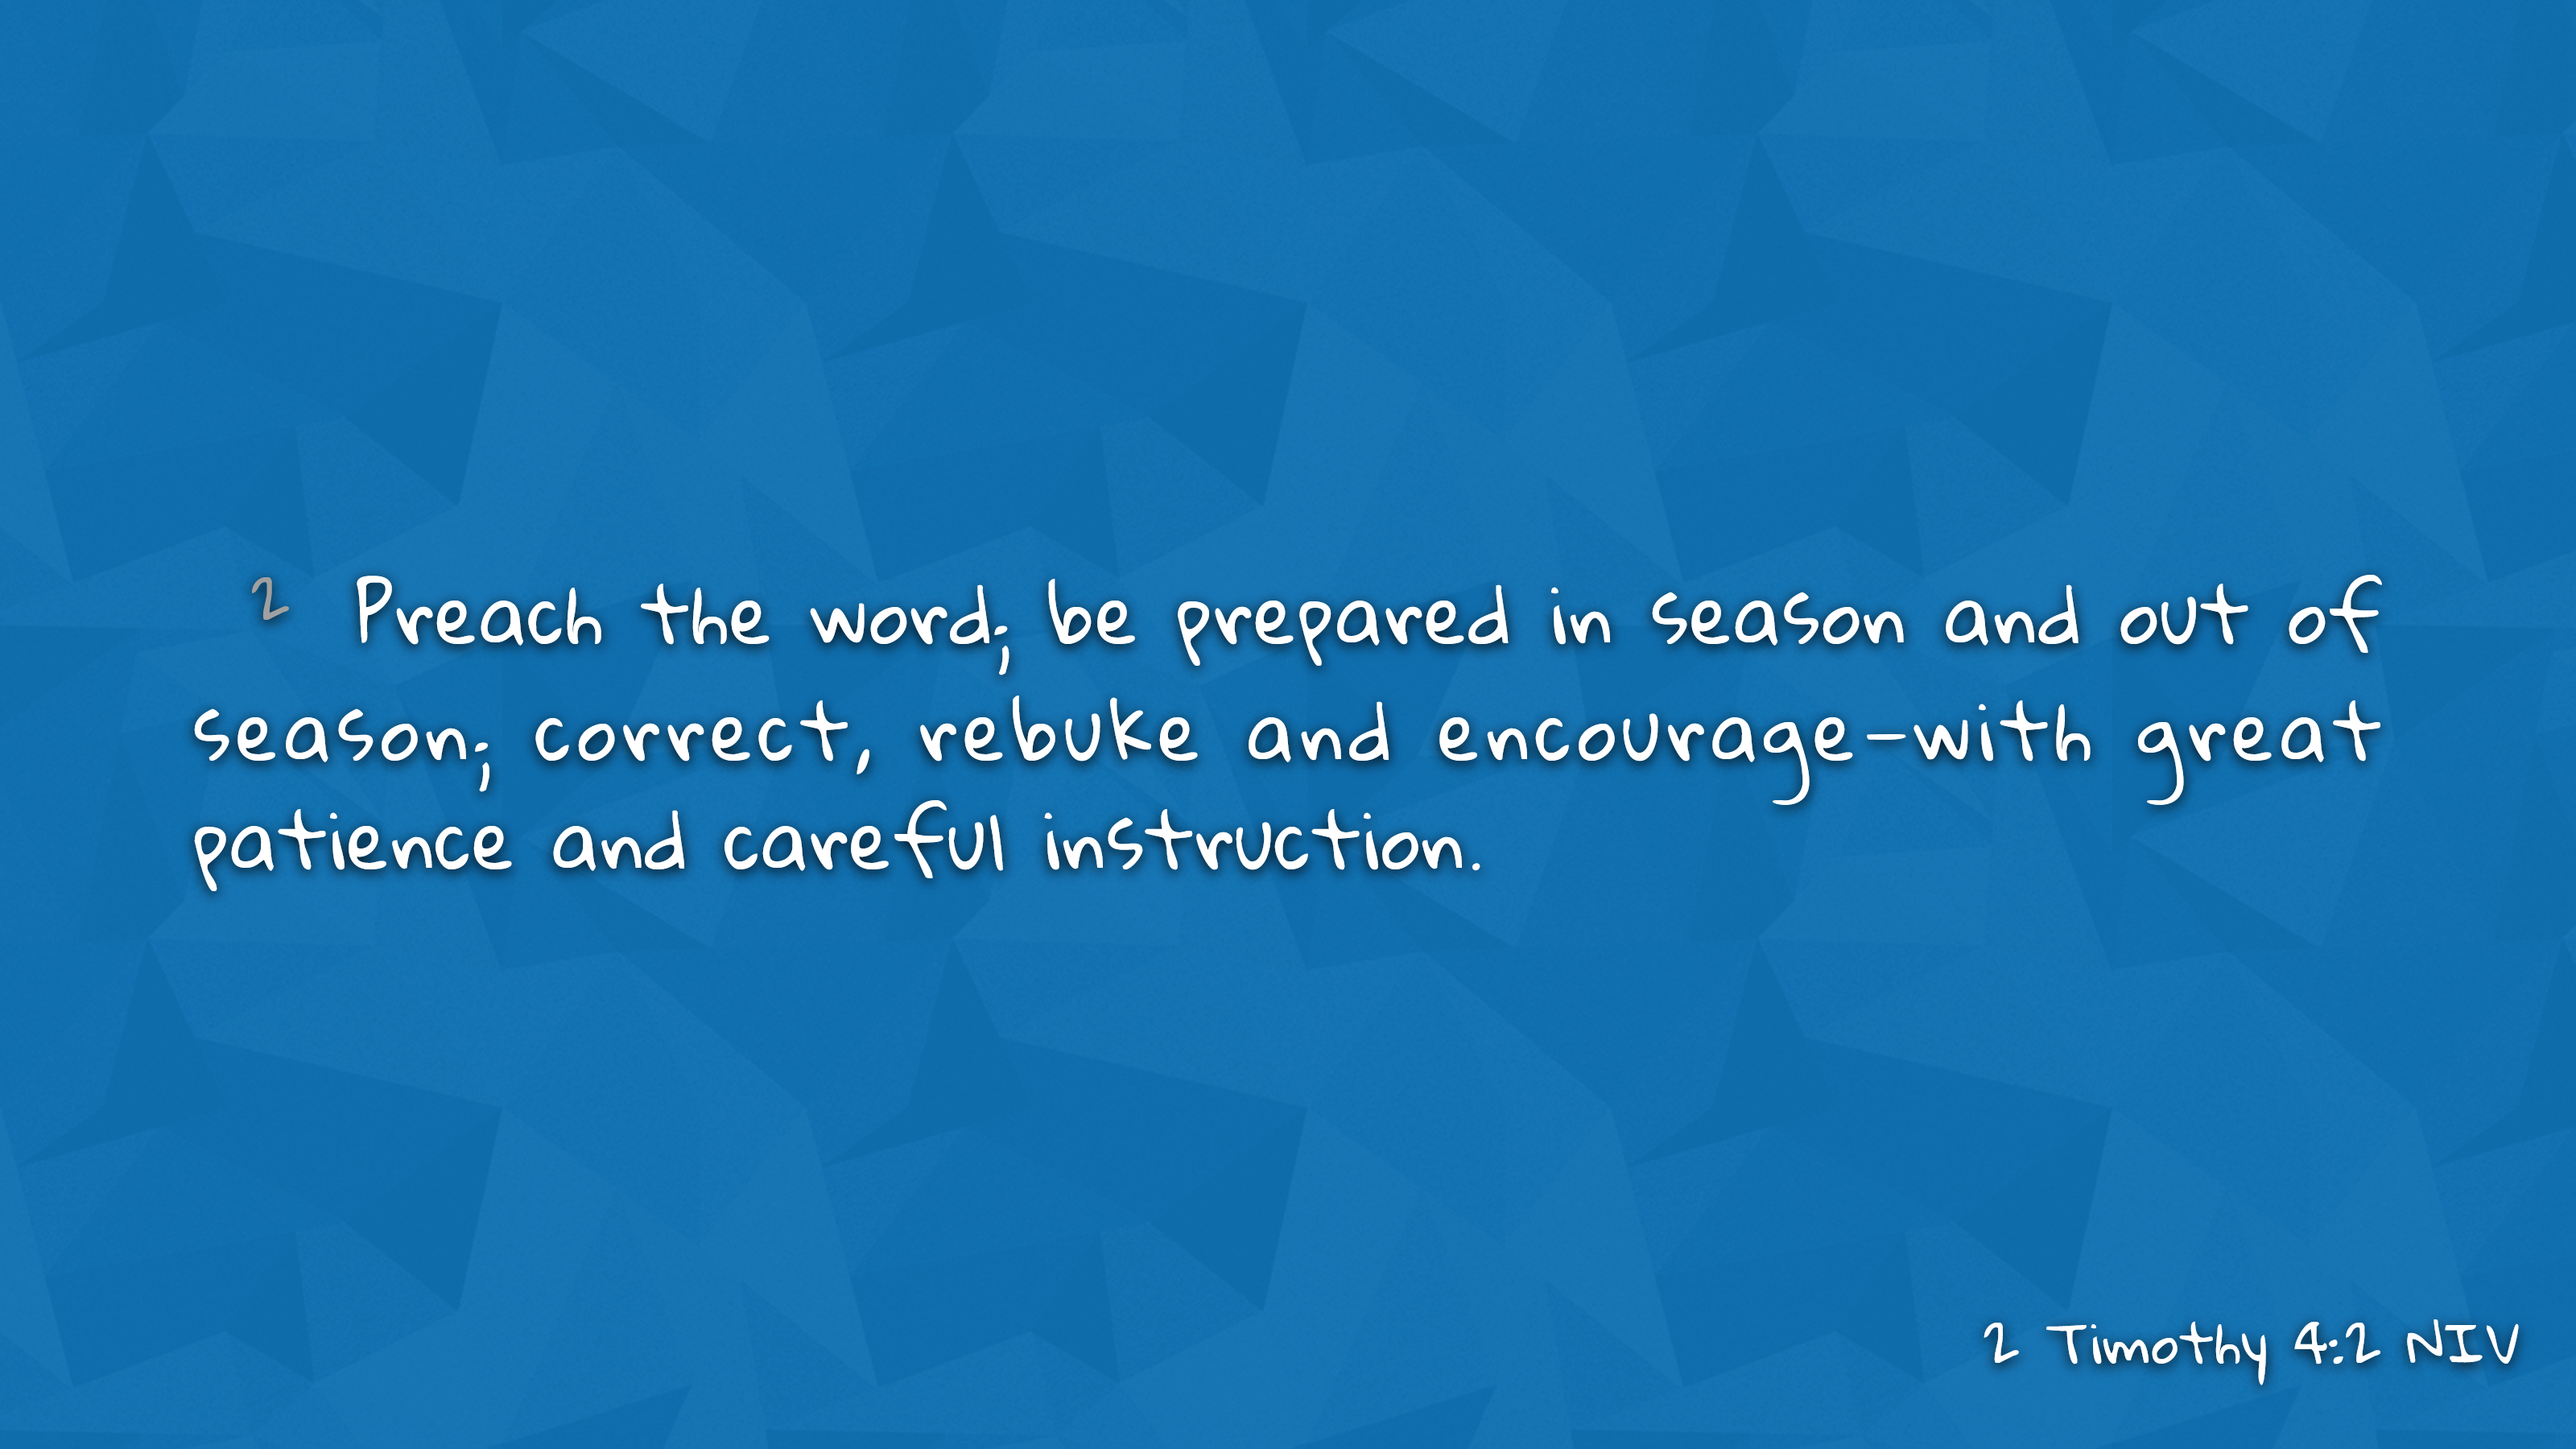
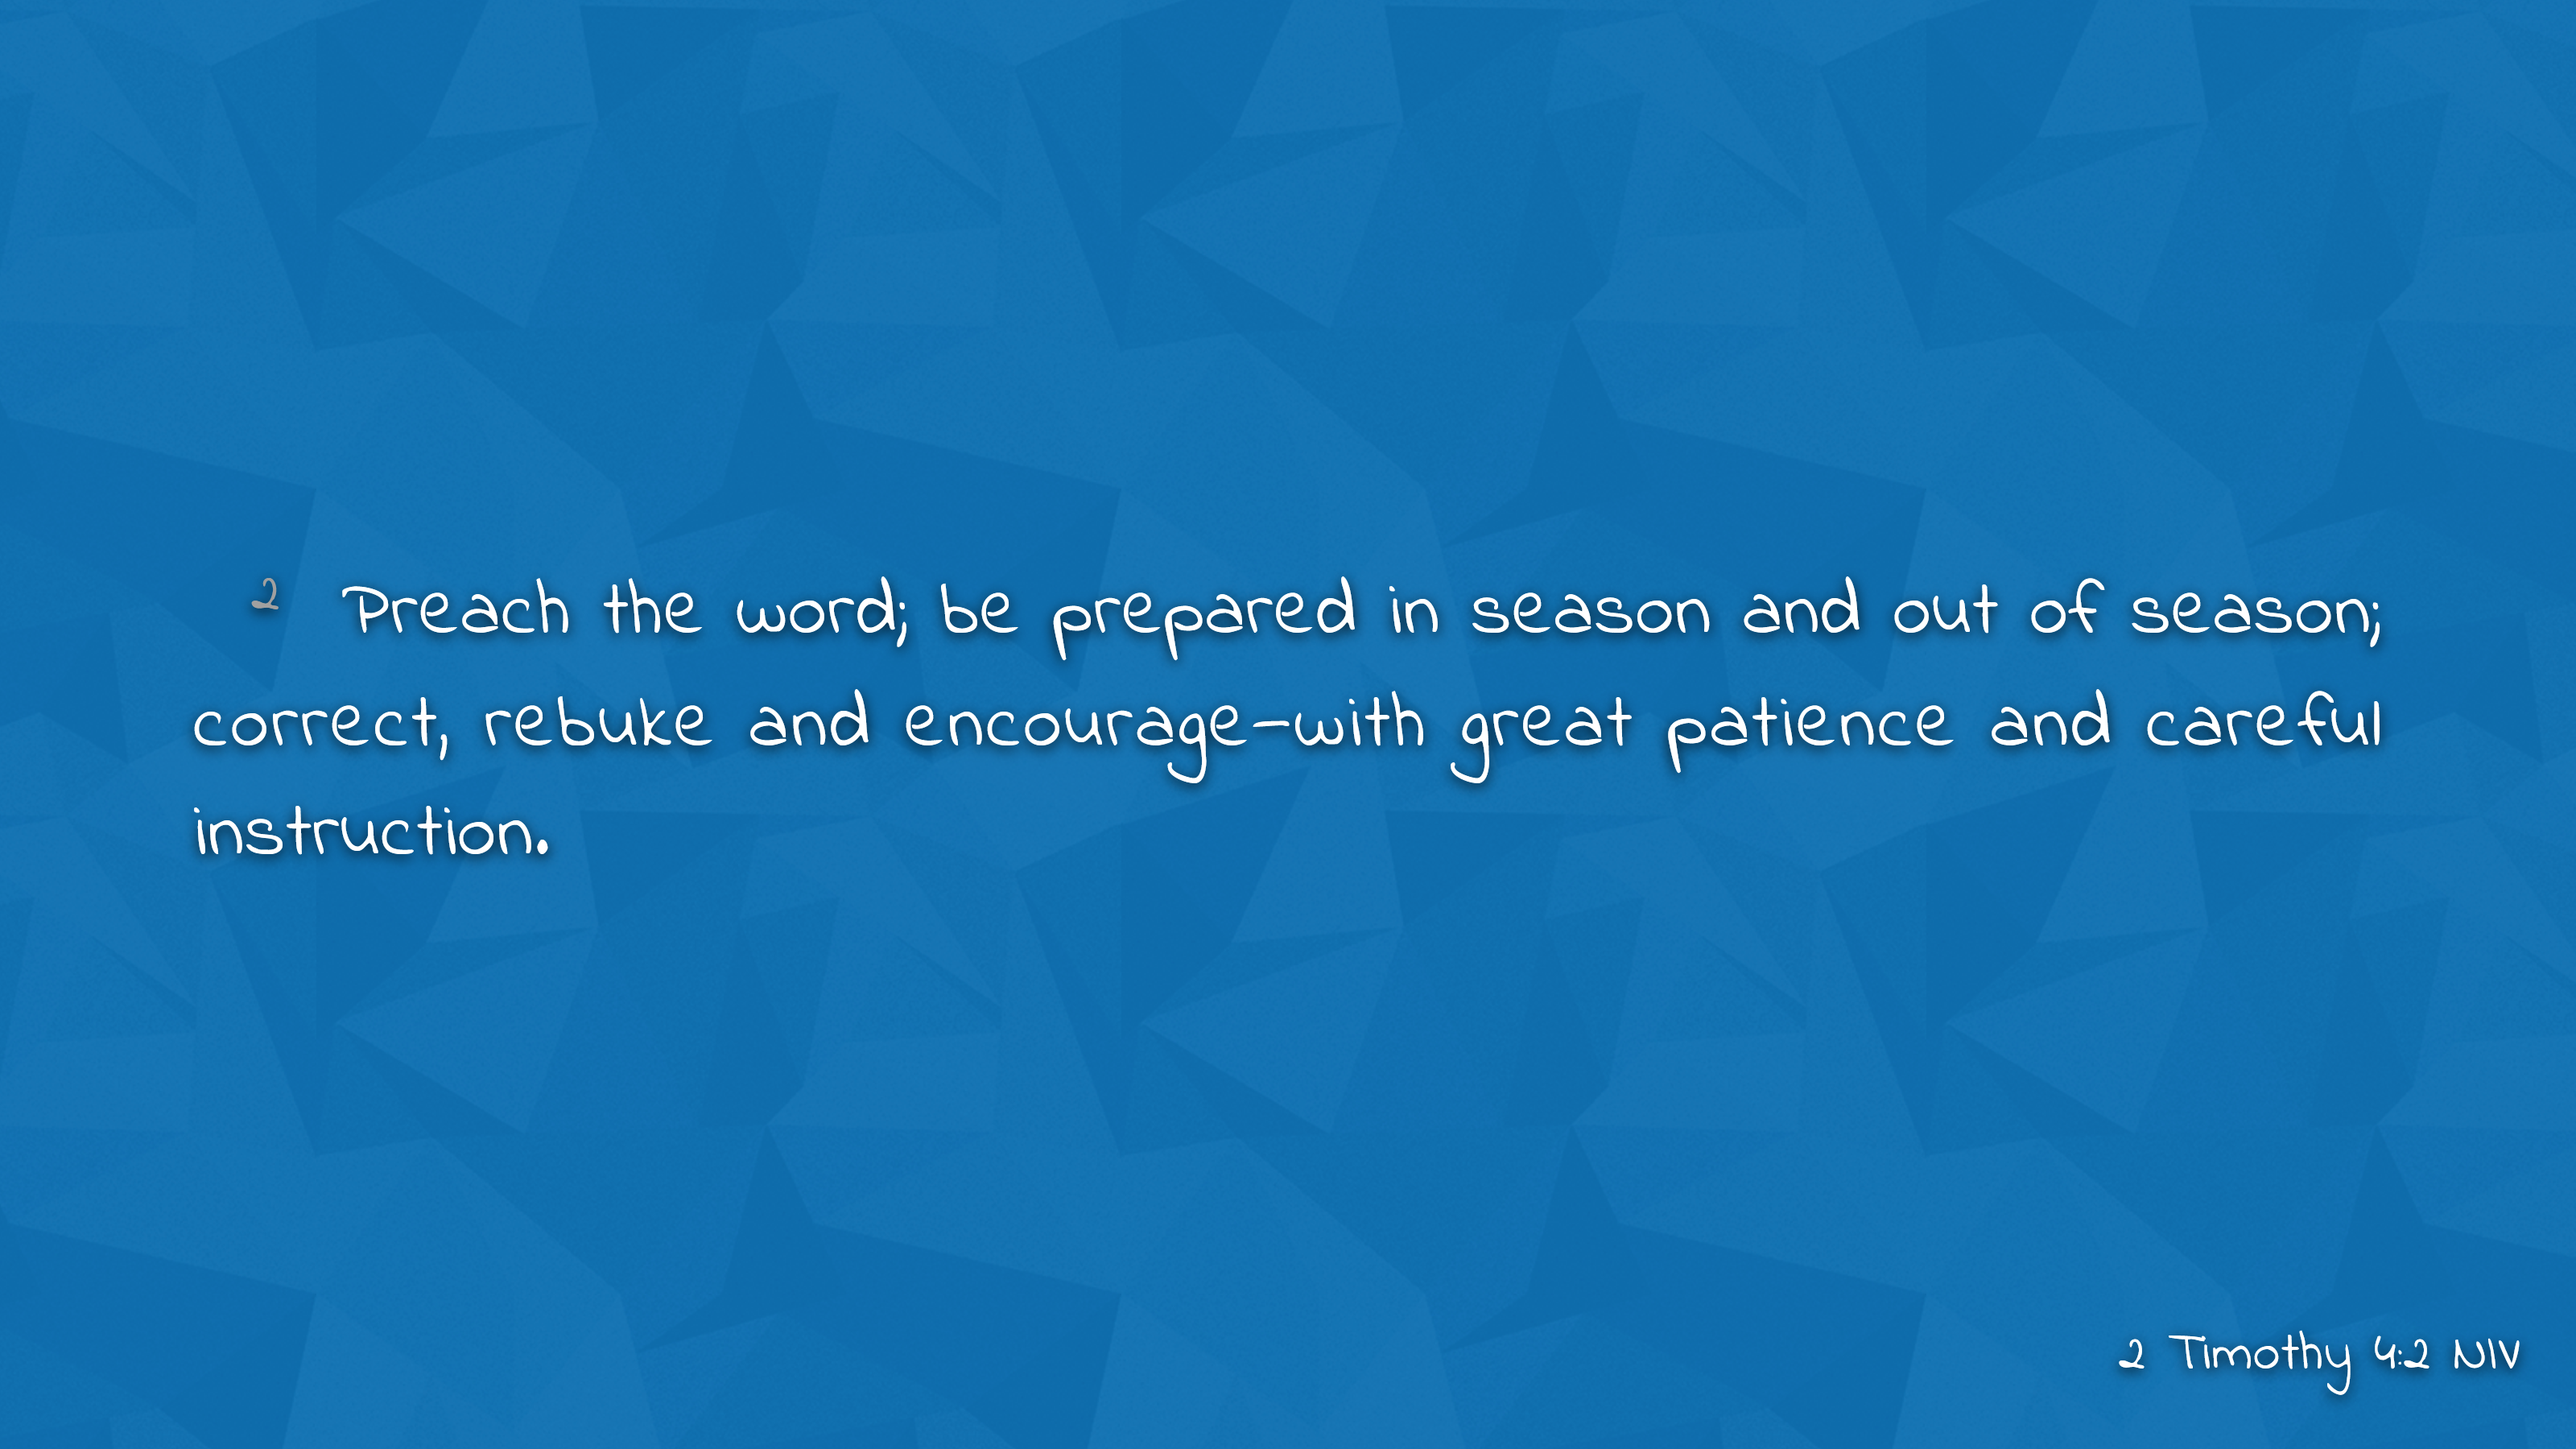
Glory font update

Changed region(s): [[0.0625, 0.3733, 0.9375, 0.6222], [0.75, 0.9022, 1.0, 0.9644]]

diff --git a/backgrounds/glory.css b/backgrounds/glory.css
@@ -1,6 +1,11 @@
-@import url(https://fonts.googleapis.com/css2?family=Caveat:wght@600&display=swap); 
+/* @import url(https://fonts.googleapis.com/css2?family=Caveat:wght@600&display=swap); */
+
+@import url(https://fonts.googleapis.com/css2?family=Indie+Flower&display=swap); 
 
 #source, #verse, #announcement {
-  font-family: 'Caveat' !important;
-  font-size: 1.3em;
+  #font-family: 'Caveat' !important;
+  #font-size: 1.3em;
+  
+  font-family: 'Indie Flower', cursive !important;
+  font-size: 1.5em;
 }
